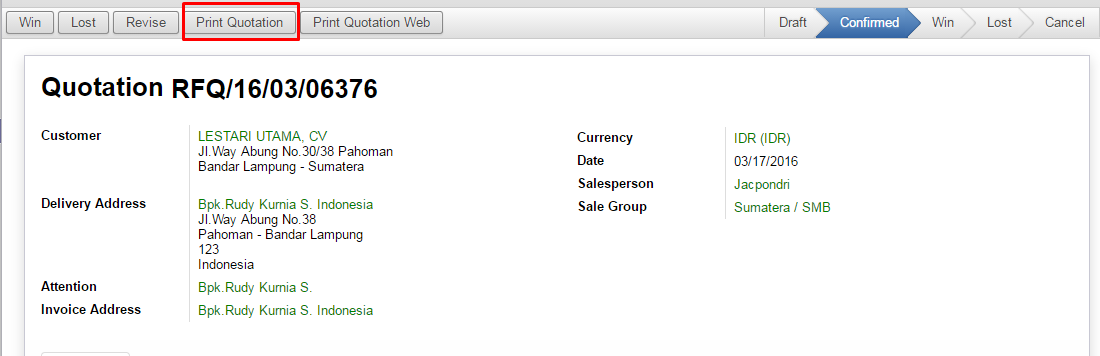
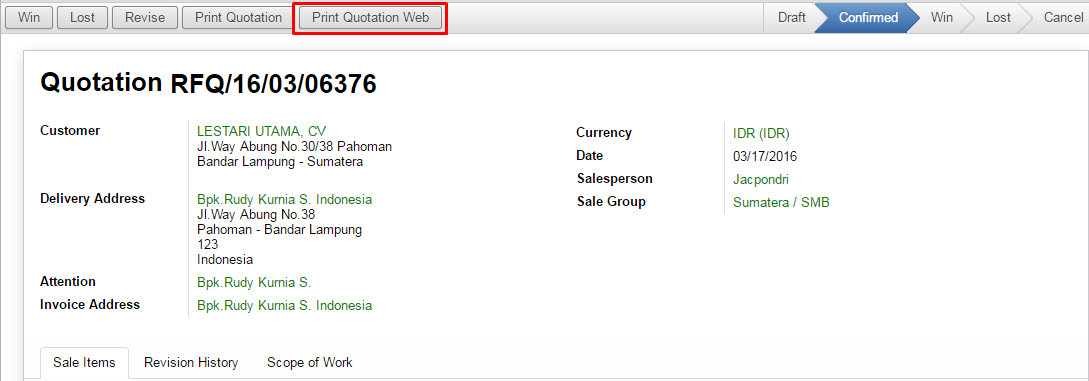
pembuatan penawaran 3

diff --git a/source/pages/faq/case_penawaran.rst b/source/pages/faq/case_penawaran.rst
@@ -3,19 +3,19 @@ Membuat Penawaran (RFQ)
 
 Untuk membuat penawaran terhadap produk dan jasa terdapat langkah-langkah yang harus dilakukan, dimana pembuatan penawaran dilakukan melalui ERP pada modul menu RFQ. Berikut merupakan tahap-tahap pembuatan penawaran :
 
-#. Masuk pada OpenERP dengan melakukan login telebih dahulu, jika login sukses maka akan masuk pada tampilan utama dari OpenERP
+- Masuk pada OpenERP dengan melakukan login telebih dahulu, jika login sukses maka akan masuk pada tampilan utama dari OpenERP
 
 .. image:: /img/mp-tampilanutama.png
 
-#. Masuk pada menu **Sales**, pada bagian sidebar pilih modul **RFQ** yang terdapat pada kategori **Sales**. berikut merupakan tampilan dan isi dari modul RFQ.
+- Masuk pada menu **Sales**, pada bagian sidebar pilih modul **RFQ** yang terdapat pada kategori **Sales**. berikut merupakan tampilan dan isi dari modul RFQ.
 
 .. image:: /img/mp-masukrfq.png
 
-#. Pada modul RFQ berisi list penawaran penjualan ke Customer, Untuk membuat penawaran penjualan baru tekan tombol **Create** dan masuk pada tampilan form **Quotation**  
+- Pada modul RFQ berisi list penawaran penjualan ke Customer, Untuk membuat penawaran penjualan baru tekan tombol **Create** dan masuk pada tampilan form **Quotation**  
 
 .. image:: /img/formquotation.png 
 
-#. Form **Quotation** berfungsi untuk melakukan proses penginputan penawaran penjualan ke Customer. 
+- Form **Quotation** berfungsi untuk melakukan proses penginputan penawaran penjualan ke Customer. 
 
 Untuk menjelaskan cara penginputan pada form **Quotation**, dibawah ini akan memberikan sebuah contoh kasus penawaran penjualan kepada CV (CV. Lestari Utama) yang ingin melakukan pemesanan produk yaitu 82 set **Carry Idler**. 
 
@@ -127,11 +127,11 @@ Untuk menjelaskan cara penginputan pada form **Quotation**, dibawah ini akan mem
 
 .. image:: /img/mp-note.png
 
- - Jika seluruh field telah terisi, langkah selanjutnya adalah mengkonfirmasi dengan menekan tombol Confirm. 
+- Jika seluruh field telah terisi, langkah selanjutnya adalah mengkonfirmasi dengan menekan tombol Confirm. 
 
  .. image:: /img/mp-confirm.png
 
- - Maka data telah terkonfirmasi, dan telah dapat dicetak dikertas. Untuk mencetak data tekan tombol Print Quotation
+- Maka data telah terkonfirmasi, dan telah dapat dicetak dikertas. Untuk mencetak data tekan tombol Print Quotation Web.
 
 .. image:: /img/mp-print.png
 
@@ -139,7 +139,15 @@ Untuk menjelaskan cara penginputan pada form **Quotation**, dibawah ini akan mem
 
 .. image:: /img/mp-hasilprint.png
 
-- Dengan begitu hasil cetak tersebut dapat digunakan sebagai penawaran penjualan pada Customer. Pada tahap berikutnya terjadi kembali negosiasi dengan Custommer. Pada suatu kasus Costomer meminta pengurangan atau perubahan pada penawaran penjualan. Dengan begitu, hal yang harus dilakukan adalah melakukan revisi penawaran. Yaitu dengan menekan tombol Revise.
+- Dengan begitu hasil cetak tersebut dapat digunakan sebagai penawaran penjualan pada Customer. Pada tahap berikutnya terjadi kembali negosiasi dengan Custommer. 
+
+
+Revisi Penawaran
+----------------
+
+Pada suatu kasus Costomer meminta perubahan pada penawaran penjualan. Dengan begitu, hal yang harus dilakukan adalah melakukan revisi penawaran. langkah-langkah yang harus dilakukan yaitu 
+
+- Masuk kembali pada modul RFQ dan pilih draft penawaran penjualan untuk perusahaan bersangkutan. Untuk melakukan revisi tekan Revise.
 
 .. image:: /img/mp-revise.png
 
@@ -147,6 +155,6 @@ Untuk menjelaskan cara penginputan pada form **Quotation**, dibawah ini akan mem
 
 .. image:: /img/mp-revisereason.png
 
-- Barulah setelah itu data penawaran kembali diubah sesuai dengan keinginan Customer. Dan tahap selanjutnya adalah kembali melakukan penginputan seperti tahap sebelumnya. Untuk melihat hasil revisi dari penawaran dapat melihat pada tab Revision History.
+- Barulah setelah itu data penawaran kembali diubah sesuai dengan keinginan Customer. Dan tahap selanjutnya adalah kembali melakukan penginputan seperti pada tahap sebelumnya. Untuk melihat list revisi dari penawaran dapat melihat pada tab Revision History.
 
 .. image:: /img/mp-revisionhistory.png
